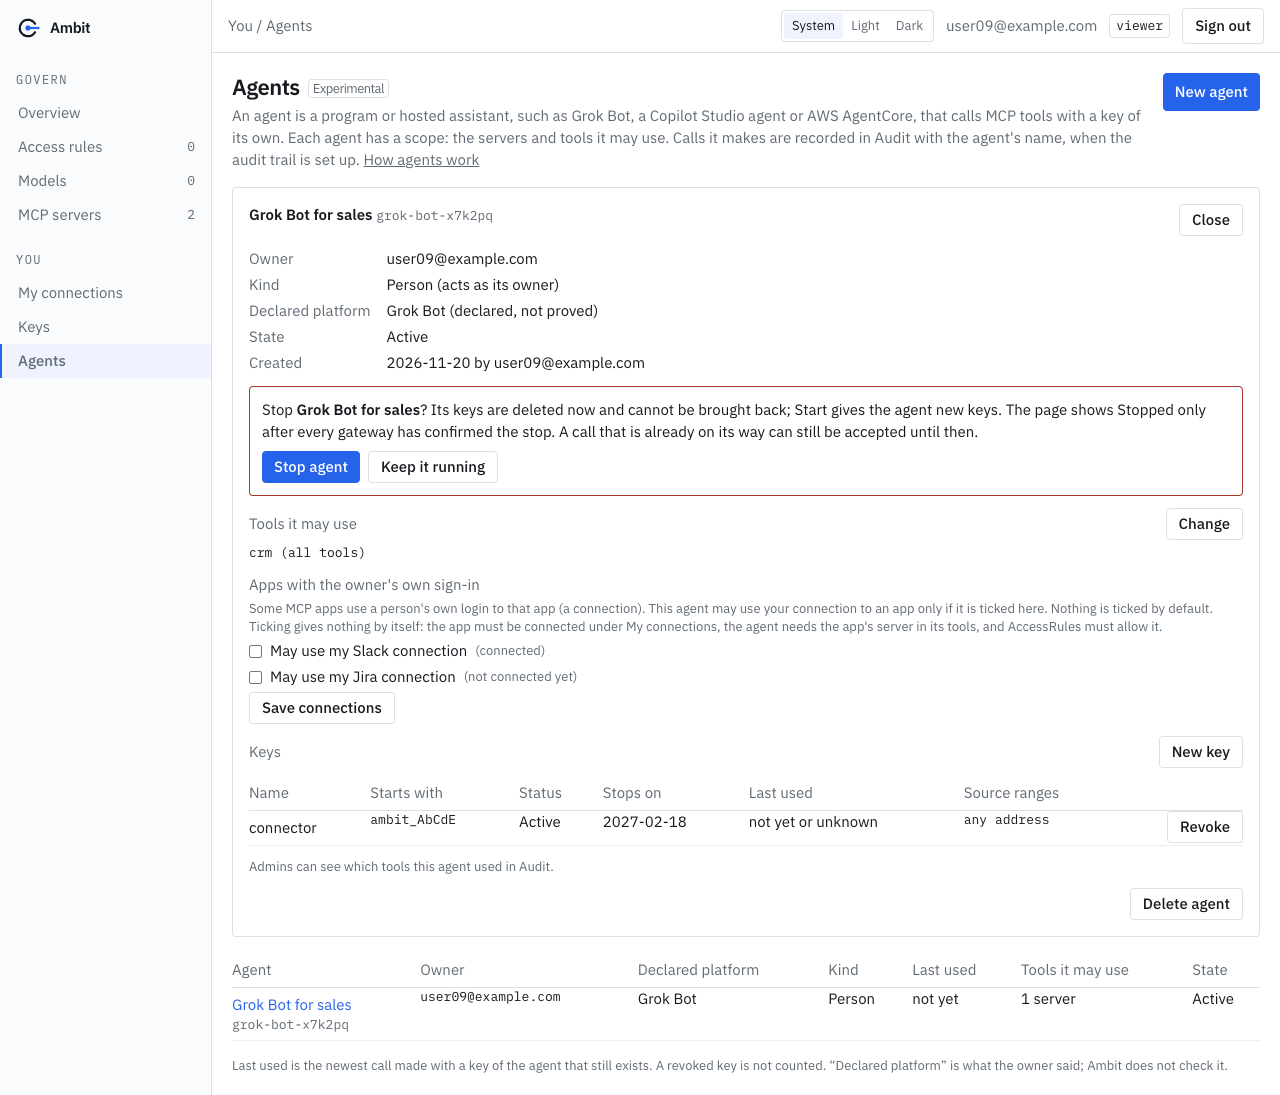
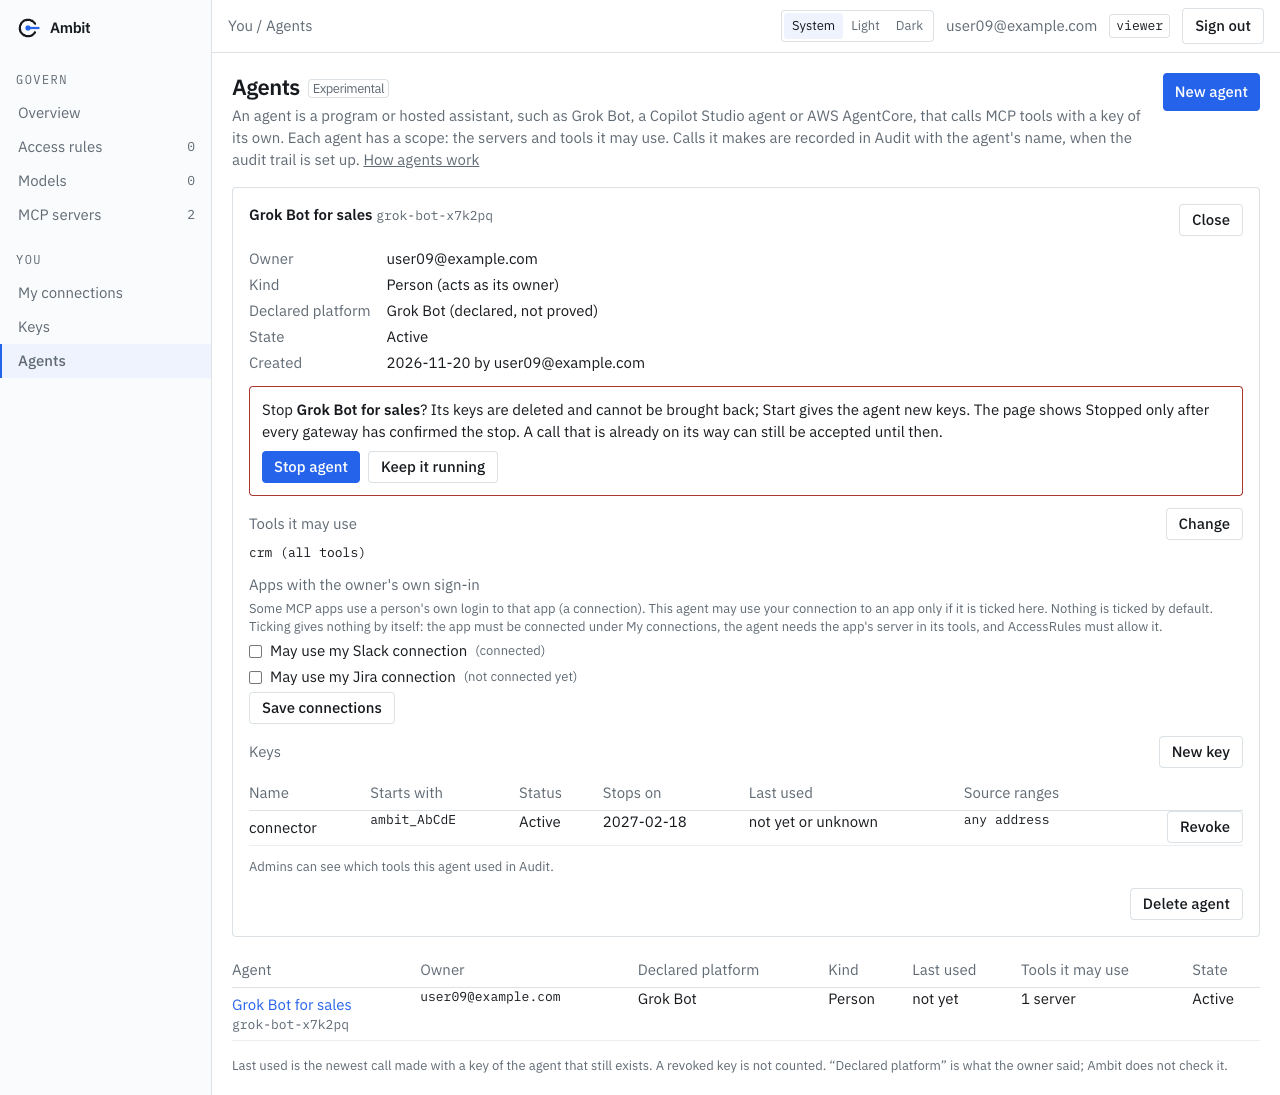
web: review fixes for stop, start and consent
Seed the page with the answer of stop and start; the keys are 'being deleted' until Stopped;
polling ends after repeated errors; the detail follows the list; the consent boxes follow the
console; forms close when the agent is not active; focus returns to the Stop button; the
live test has its own timeout.

Changed region(s): [[0.2188, 0.3726, 0.9375, 0.4037]]

diff --git a/web/src/routes/agents.tsx b/web/src/routes/agents.tsx
@@ -28,7 +28,7 @@ const useKeyUse = (admin: boolean) => useQuery({ queryKey: [...agentsKey, "keys"
   queryFn: () => getJSON<KeyList>(admin ? "/api/admin/keys" : "/api/keys") });
 // While a stop is not confirmed, ask again every 2 seconds: the console reports Stopped only after every gateway confirmed.
 const useAgent = (name?: string) => useQuery({ queryKey: [...agentsKey, "one", name], enabled: !!name, retry: false,
-  refetchInterval: (q) => (q.state.data?.state === "stopping" ? 2_000 : false),
+  refetchInterval: (q) => (q.state.data?.state === "stopping" && q.state.errorUpdateCount < 3 ? 2_000 : false),
   queryFn: () => getJSON<AgentDetailData>(`/api/agents/${encodeURIComponent(name!)}`) });
 
 const th = "py-1.5 pr-3 font-normal";
@@ -255,12 +255,17 @@ function ToolsUsed({ name }: { name: string }) {
 
 // Stop and start. A stop is complete only when every gateway has confirmed it; the page shows what the console measured and
 // never promises that no call is accepted after the request.
-function StopPanel({ a, admin }: { a: AgentView; admin: boolean }) {
+function StopPanel({ a, admin, enabled }: { a: AgentView; admin: boolean; enabled: boolean }) {
   const qc = useQueryClient();
   const [confirm, setConfirm] = useState(false);
-  const refresh = () => qc.invalidateQueries({ queryKey: agentsKey });
-  const stop = useMutation({ mutationFn: () => sendJSON("POST", `/api/agents/${encodeURIComponent(a.name)}/stop`, {}), onSuccess: () => { setConfirm(false); refresh(); } });
-  const start = useMutation({ mutationFn: () => sendJSON("POST", `/api/agents/${encodeURIComponent(a.name)}/start`, {}), onSuccess: refresh });
+  // The answer of stop and start is the agent as it is now: put it in the page at once (no moment with the old controls),
+  // then ask again.
+  const seed = (now: unknown) => {
+    qc.setQueryData([...agentsKey, "one", a.name], (old: AgentDetailData | undefined) => ({ ...old, ...(now as AgentView) }));
+    qc.invalidateQueries({ queryKey: agentsKey });
+  };
+  const stop = useMutation({ mutationFn: () => sendJSON("POST", `/api/agents/${encodeURIComponent(a.name)}/stop`, {}), onSuccess: (now) => { setConfirm(false); seed(now); } });
+  const start = useMutation({ mutationFn: () => sendJSON("POST", `/api/agents/${encodeURIComponent(a.name)}/start`, {}), onSuccess: seed });
   const mayAct = a.manageable || admin; // the owner (person mode) or an admin
   const notes = stopNotes(a);
   return (
@@ -271,24 +276,24 @@ function StopPanel({ a, admin }: { a: AgentView; admin: boolean }) {
         <p><a className="text-accent underline" href={`/api/evidence/agent-stop/${encodeURIComponent(a.name)}.zip`} download>Download the stop evidence (agent-stop.zip)</a>
           <span className="block text-small text-muted">Times of each step, the confirmation of each gateway, and the calls that were accepted after the request, counted. It needs evidence to be switched on.</span></p>)}
       {start.isError && <p className="text-bad" role="alert">{start.error.message}</p>}
-      {mayAct && a.state === "stopped" && <Button variant="outline" className="w-auto py-1" disabled={start.isPending} onClick={() => start.mutate()}>Start agent</Button>}
+      {mayAct && a.state === "stopped" && <Button variant="outline" className="w-auto py-1" disabled={start.isPending || !enabled} title={enabled ? "" : "Agents are switched off by your administrator"} onClick={() => start.mutate()}>Start agent</Button>}
       {mayAct && a.state === "active" && (confirm ? (
         <div role="alertdialog" aria-label="Stop agent" aria-describedby="stop-agent-text" className="space-y-2 rounded-md border border-bad p-3">
-          <p id="stop-agent-text">Stop <strong>{a.displayName}</strong>? Its keys are deleted now and cannot be brought back; Start gives the agent new keys. The page shows Stopped only after every gateway has confirmed the stop. A call that is already on its way can still be accepted until then.</p>
+          <p id="stop-agent-text">Stop <strong>{a.displayName}</strong>? Its keys are deleted and cannot be brought back; Start gives the agent new keys. The page shows Stopped only after every gateway has confirmed the stop. A call that is already on its way can still be accepted until then.</p>
           {stop.isError && <p className="text-bad" role="alert">{stop.error.message}</p>}
           <div className="flex gap-2">
             <Button className="w-auto py-1" disabled={stop.isPending} onClick={() => stop.mutate()}>Stop agent</Button>
-            <Button variant="outline" className="w-auto py-1" autoFocus onClick={() => setConfirm(false)}>Keep it running</Button>
+            <Button variant="outline" className="w-auto py-1" autoFocus onClick={() => { setConfirm(false); setTimeout(() => document.getElementById("stop-agent-button")?.focus()); }}>Keep it running</Button>
           </div>
         </div>
-      ) : <Button variant="outline" className="w-auto py-1" onClick={() => setConfirm(true)}>Stop agent</Button>)}
+      ) : <Button id="stop-agent-button" variant="outline" className="w-auto py-1" onClick={() => setConfirm(true)}>Stop agent</Button>)}
     </div>
   );
 }
 
 // The owner left (offboarding or a change at the identity provider): the agent keeps working for a limited time (Helm value
 // agents.orphanDays, 7 by default), then it is stopped. An admin moves it to a new owner.
-function OrphanBanner({ a, admin }: { a: AgentView; admin: boolean }) {
+function OrphanBanner({ a, admin, enabled }: { a: AgentView; admin: boolean; enabled: boolean }) {
   const qc = useQueryClient();
   const [owner, setOwner] = useState("");
   const move = useMutation({ mutationFn: () => sendJSON("PUT", `/api/agents/${encodeURIComponent(a.name)}/owner`, { owner: owner.trim() }),
@@ -296,8 +301,10 @@ function OrphanBanner({ a, admin }: { a: AgentView; admin: boolean }) {
   if (!a.orphanedAt) return null;
   return (
     <div role="status" data-testid="orphan-banner" className="space-y-2 rounded-md bg-warn-soft p-3 text-warn">
-      <p>The owner of this agent left on {utcTime(a.orphanedAt)}. The agent keeps working for a limited time (the Helm value agents.orphanDays, 7 by default). Then it is stopped. An admin can move it to a new owner.</p>
-      {admin && a.mode === "itself" && (
+      <p>The owner of this agent left on {utcTime(a.orphanedAt)}.{" "}
+        {a.state === "active" || a.state === "pending" ? "The agent keeps working for a limited time (the Helm value agents.orphanDays, 7 by default). Then it is stopped. An admin can move it to a new owner."
+          : `The agent is now ${stateText[a.state].toLowerCase()}.`}</p>
+      {admin && enabled && a.mode === "itself" && (a.state === "active" || a.state === "pending") && (
         <form className="flex flex-wrap items-end gap-2 text-ink" aria-label="Owner change" onSubmit={(e) => { e.preventDefault(); move.mutate(); }}>
           <label><span className="mb-1 block text-muted">New owner</span><input className={field} value={owner} required onChange={(e) => setOwner(e.target.value)} placeholder="a person's email, or group:platform" /></label>
           <Button type="submit" className="w-auto" disabled={move.isPending}>Move agent</Button>
@@ -314,11 +321,14 @@ function ConsentSection({ a, canChange }: { a: AgentView; canChange: boolean }) 
   const qc = useQueryClient();
   const conns = useConnections();
   const [picked, setPicked] = useState(a.connectionConsent);
+  // What the console has is the truth: when it changes (another session, a save), the boxes show it, so an old draft cannot grant again.
+  const served = a.connectionConsent.join(",");
+  useEffect(() => { setPicked(a.connectionConsent); }, [served]); // eslint-disable-line react-hooks/exhaustive-deps
   const save = useMutation({ mutationFn: () => sendJSON("PATCH", `/api/agents/${encodeURIComponent(a.name)}`, { connectionConsent: picked }),
     onSuccess: () => qc.invalidateQueries({ queryKey: agentsKey }) });
   if (a.mode === "itself") return <p className="text-small text-muted" data-testid="consent-itself">An itself-mode agent gets no app connections in 0.6.0.</p>;
   const known = new Set((conns.data ?? []).map((c) => c.name));
-  const gone = picked.filter((n) => !known.has(n));
+  const gone = conns.data ? picked.filter((n) => !known.has(n)) : []; // unknown only once the connection list has arrived
   const changed = JSON.stringify([...picked].sort()) !== JSON.stringify([...a.connectionConsent].sort());
   return (
     <div className="space-y-1" data-testid="consent">
@@ -367,6 +377,8 @@ function AgentDetail({ name, list, onClose }: { name: string; list: AgentList | 
     onSuccess: () => { qc.invalidateQueries({ queryKey: agentsKey }); onClose(); },
   });
   // The list shows the state too: when the detail learns of a new state (Stopped, after the poll), the list asks again.
+  const listState = list?.agents.find((x) => x.name === name)?.state;
+  useEffect(() => { if (listState && q.data && listState !== q.data.state) void q.refetch(); }, [listState]); // eslint-disable-line react-hooks/exhaustive-deps
   const seenState = q.data?.state;
   useEffect(() => { if (seenState) qc.invalidateQueries({ queryKey: [...agentsKey, "list"] }); }, [seenState, qc]);
   if (q.isError) return <p className="text-muted" role="status">This agent does not exist, or it is not yours.</p>;
@@ -392,8 +404,8 @@ function AgentDetail({ name, list, onClose }: { name: string; list: AgentList | 
         {facts.map(([t, v]) => <div key={t} className="contents"><dt className="text-muted">{t}</dt>
           <dd data-testid={`agent-${t.toLowerCase().replace(/ /g, "-")}`}>{v}</dd></div>)}
       </dl>
-      <OrphanBanner a={a} admin={admin} />
-      <StopPanel a={a} admin={admin} />
+      <OrphanBanner a={a} admin={admin} enabled={list?.settings.enabled ?? true} />
+      <StopPanel a={a} admin={admin} enabled={list?.settings.enabled ?? true} />
       {a.state === "pending" && <p role="status" className="rounded-md bg-warn-soft px-2 py-1 text-warn">The service account of this agent is not ready yet. Keys can be made when the state is Active.</p>}
       <div className="space-y-1">
         <div className="flex items-center justify-between"><h3 className="text-muted">Tools it may use</h3>
@@ -402,14 +414,14 @@ function AgentDetail({ name, list, onClose }: { name: string; list: AgentList | 
           ? <p data-testid="agent-scope">None. With an empty scope the agent can use no tool. Change it to add servers or tools.</p>
           : <ul data-testid="agent-scope" className="space-y-0.5">{a.scope.map((e) => <li key={e} className="font-mono text-small">{e.includes("/") ? e : `${e} (all tools)`}</li>)}</ul>}
       </div>
-      {editing && <EditAgent a={a} onClose={() => setEditing(false)} />}
+      {editing && usable && <EditAgent a={a} onClose={() => setEditing(false)} />}
       <ConsentSection a={a} canChange={a.manageable && a.mode === "person" && usable} />
       <div className="space-y-2">
         <div className="flex items-center justify-between"><h3 className="text-muted">Keys</h3>
           {a.manageable && usable && !addingKey && live.length < 2 && <Button variant="outline" className="w-auto py-1" onClick={() => setAddingKey(true)}>New key</Button>}</div>
-        {addingKey && <NewKey a={a} maxDays={maxDays} admin={admin} onClose={() => setAddingKey(false)} onBusy={setKeyBusy} />}
+        {addingKey && usable && <NewKey a={a} maxDays={maxDays} admin={admin} onClose={() => setAddingKey(false)} onBusy={setKeyBusy} />}
         {revoke.isError && <p className="text-bad" role="alert">{revoke.error.message}</p>}
-        {keys.length === 0 ? <p className="text-muted">No keys. The agent cannot call anything until it has a key.</p> : (
+        {keys.length === 0 ? <p className="text-muted">{a.state === "stopping" ? "No keys are listed." : "No keys. The agent cannot call anything until it has a key."}</p> : (
           <table className="w-full border-collapse text-left">
             <thead><tr className="border-b border-line text-muted"><th className={th}>Name</th><th className={th}>Starts with</th><th className={th}>Status</th><th className={th}>Stops on</th>
               <th className={th}>Last used</th><th className={th}>Source ranges</th><th /></tr></thead>

diff --git a/web/src/lib/agents.ts b/web/src/lib/agents.ts
@@ -73,7 +73,7 @@ export type StopNote = { tone: "info" | "warn" | "ok"; text: string };
 export function stopNotes(a: AgentView): StopNote[] {
   const out: StopNote[] = [];
   if (a.state === "stopping") {
-    out.push({ tone: "info", text: `Stopping since ${a.stopRequestedAt ? utcTime(a.stopRequestedAt) : "a moment ago"}. The keys are deleted. The agent is shown as Stopped only after every gateway has confirmed the stop. Until then a call can still be accepted.` });
+    out.push({ tone: "info", text: `Stopping since ${a.stopRequestedAt ? utcTime(a.stopRequestedAt) : "a moment ago"}. The keys are being deleted. The agent is shown as Stopped only after every gateway has confirmed the stop. Until then a call can still be accepted.` });
     if (a.stopNotConfirmedAt) out.push({ tone: "warn", text: `Not confirmed on every gateway after 60 seconds (since ${utcTime(a.stopNotConfirmedAt)}). The steps are repeated until every gateway confirms. Ask your administrator to check the alert “stop not confirmed” and the controllers.` });
     if (a.stopUnlisted) out.push({ tone: "warn", text: "The stop list is full (1,000 agents). The keys are deleted, but the stop is not complete until there is room on the list." });
   }

diff --git a/web/e2e/agents-live.spec.ts b/web/e2e/agents-live.spec.ts
@@ -100,6 +100,7 @@ test("Audit has the agent, platform and entrance filters", async ({ page }) => {
 });
 
 test("agents: stop is confirmed by the gateways, then start; the connection boxes are there", async ({ page }) => {
+  test.setTimeout(300_000); // a stop is confirmed in seconds, but the console refuses a start for 60 seconds after it
   await signInAsAdmin(page);
   const display = uniqueName();
   try {
@@ -115,6 +116,7 @@ test("agents: stop is confirmed by the gateways, then start; the connection boxe
     const consent = page.getByTestId("consent");
     await expect(consent).toContainText("Nothing is ticked by default.");
     await expect(consent.getByRole("checkbox", { checked: true })).toHaveCount(0);
+    await expect(consent.getByRole("alert")).toHaveCount(0); // the list of connections arrived
 
     // Stop: the page says Stopping, then Stopped only after the console reports every gateway confirmed it.
     await detail.getByRole("button", { name: "Stop agent" }).click();

diff --git a/web/e2e/agents.spec.ts b/web/e2e/agents.spec.ts
@@ -502,6 +502,8 @@ test("stop: confirmed on every gateway before it says Stopped, with the measured
   await expect(stopping).toContainText("Until then a call can still be accepted.");
   await expect(page.getByTestId("agent-state")).toHaveText("Stopping");
   await expect(detail.getByRole("button", { name: "New key" })).toHaveCount(0);
+  await expect(stopping).toContainText("The keys are being deleted.");
+  await expect(detail).not.toContainText("cannot call anything");
   await snap(page, "agents-stopping");
 
   // the page asks again and shows Stopped when the console says so

diff --git a/docs/agents.md b/docs/agents.md
@@ -66,7 +66,7 @@ date and, if you want, source address ranges. The key is shown **once**, togethe
 ### Stop and start
 
 **Stop agent** is on the detail page, for the owner (person mode) and for admins. The page asks first, and says what a stop
-is: the keys are deleted at once, and the page shows **Stopped** only after every gateway has confirmed the stop. While it
+is: the console starts to delete the keys at once, and the page shows **Stopped** only after every gateway has confirmed the stop. While it
 waits, the agent is **Stopping**, the page asks again every 2 seconds, and it says that a call that is already on its way can
 still be accepted. It never says that no call is accepted: the console measures the calls that were accepted after the request
 (see [Stopping an agent](#stopping-an-agent)).
